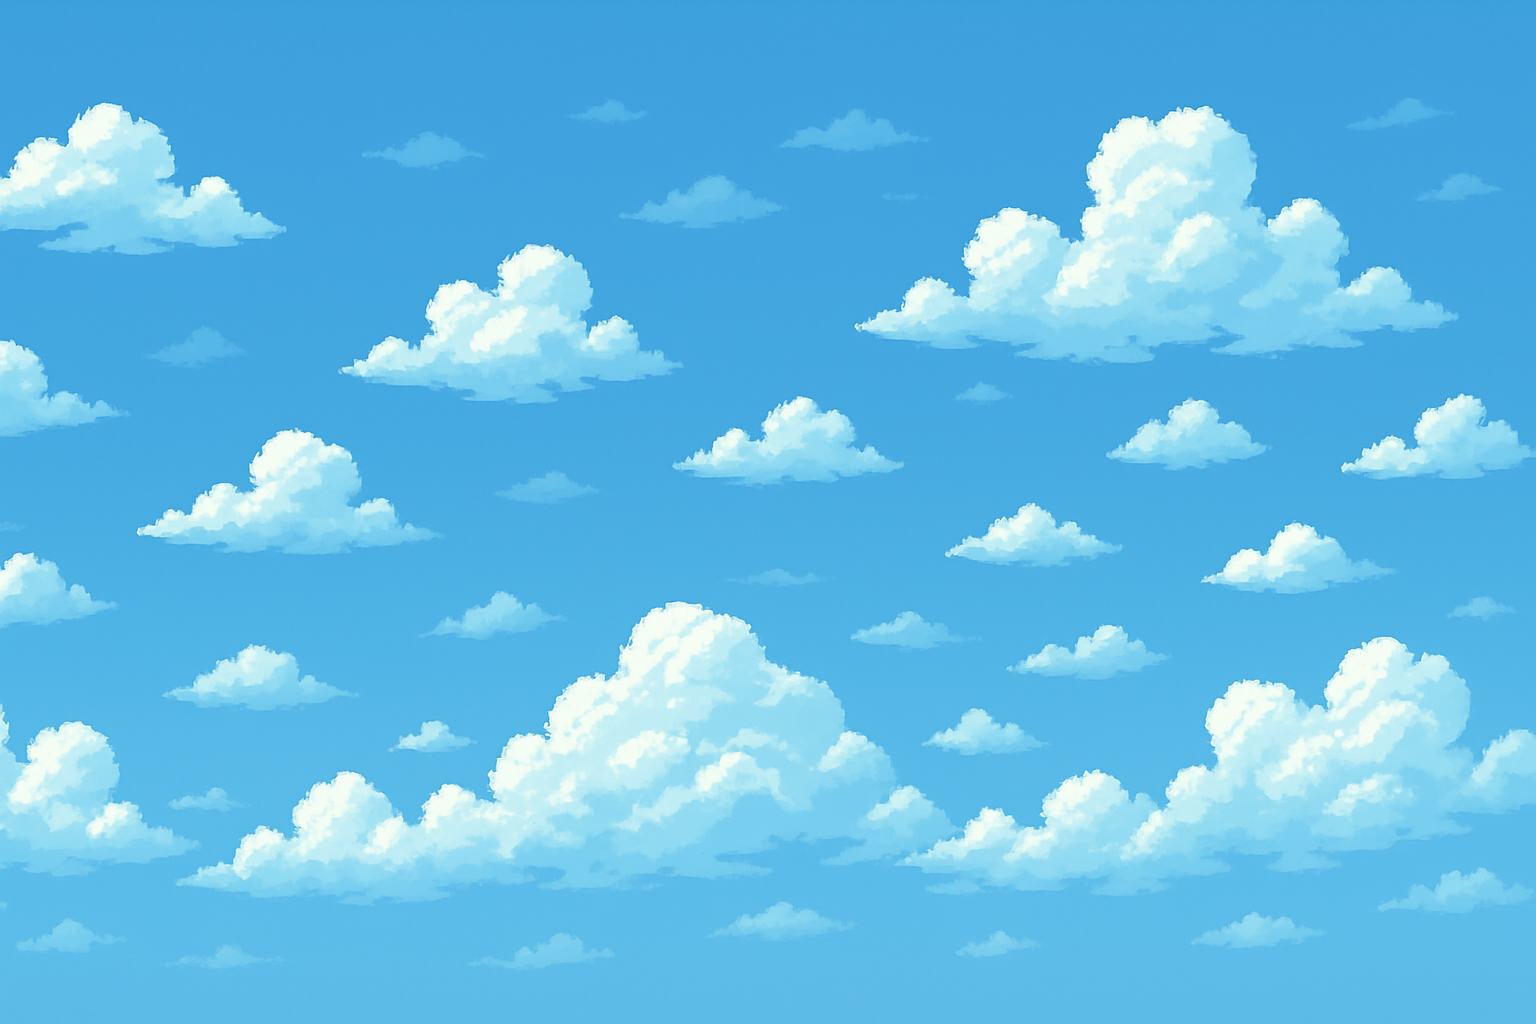
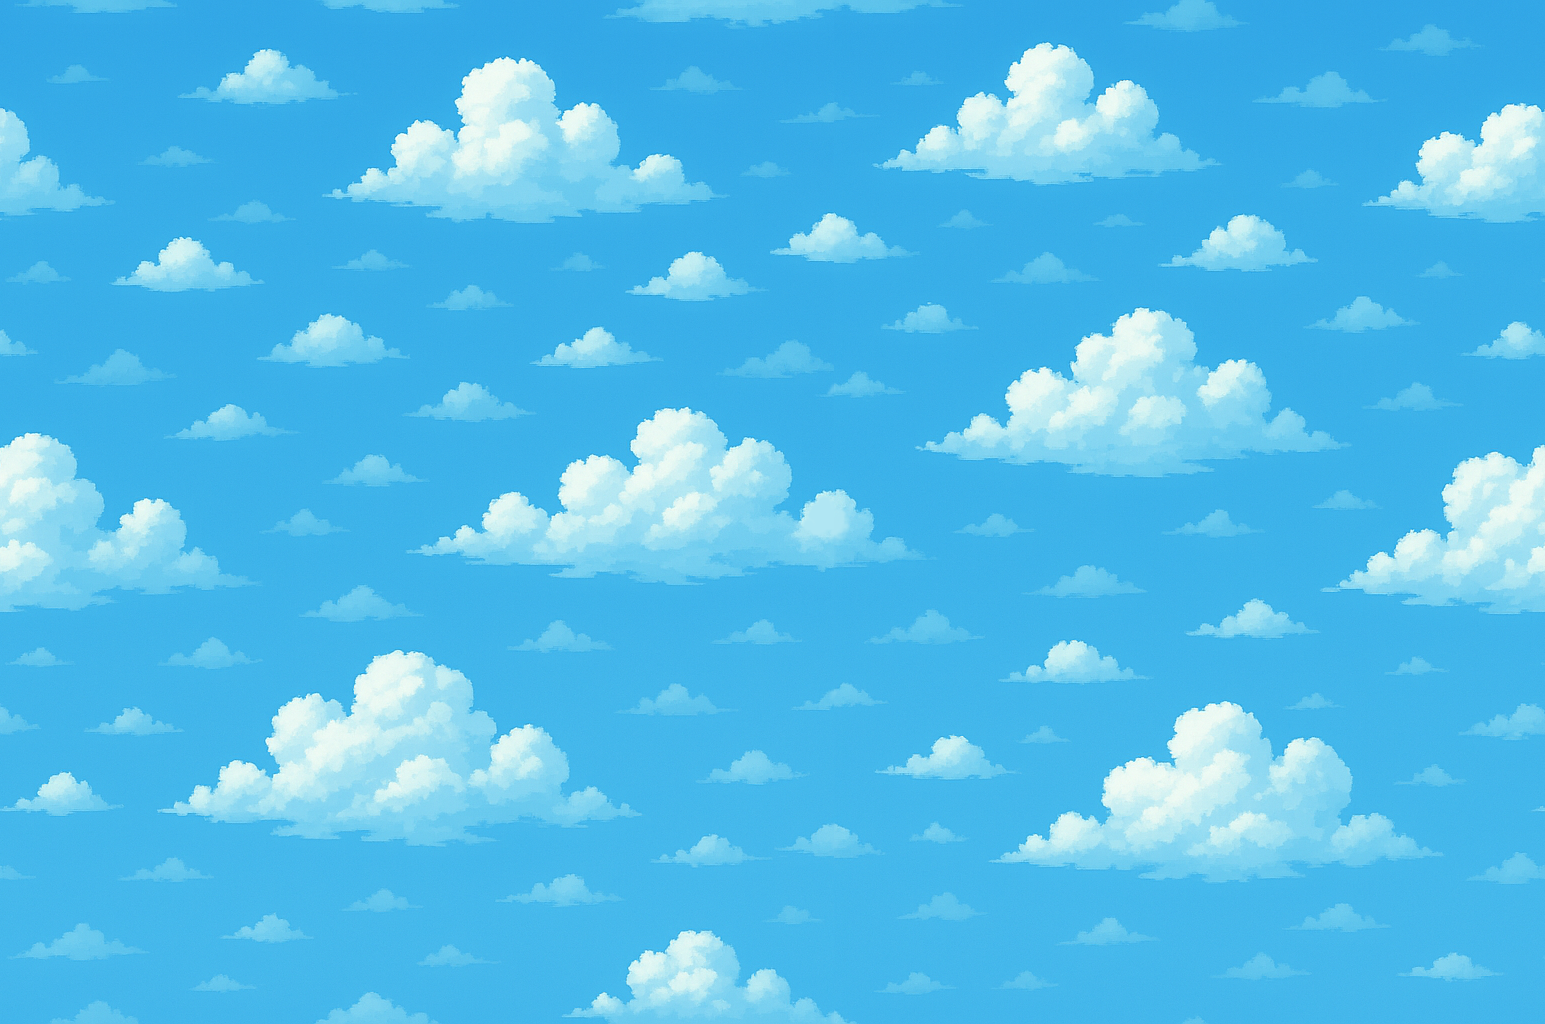
feat(app): add animated scrolling sky background for immersive pixel-style atmosphere

diff --git a/Laboratorio Módulo 4.3 - Frameworks - Vue/DailySprout/src/App.vue b/Laboratorio Módulo 4.3 - Frameworks - Vue/DailySprout/src/App.vue
@@ -3,6 +3,11 @@ import { RouterLink, RouterView } from 'vue-router'
 </script>
 
 <template>
+  <div class="sky-scroll">
+    <img src="/backgrounds/bg.png" class="sky" />
+    <img src="/backgrounds/bg.png" class="sky" />
+  </div>
+
   <header>
     <nav>
       <div class="logo">
@@ -19,10 +24,8 @@ import { RouterLink, RouterView } from 'vue-router'
 
 <style>
 body {
+  background-color: var(--pixel-sky-bg);
   margin: 0;
-  background-image: url('/backgrounds/bg.png');
-  background-size: cover;
-  background-repeat: no-repeat;
   height: 100vh;
 }
 
@@ -62,6 +65,35 @@ nav {
 
 .router-link-active {
   background-color: var(--pixel-tertiary-button-hover);
+}
+
+.sky-scroll {
+  position: fixed;
+  top: 0;
+  left: 0;
+  width: 200%;
+  height: 100vh;
+  overflow: hidden;
+  z-index: -1;
+  display: flex;
+}
+
+.sky {
+  width: 100%;
+  animation: moveClouds 120s linear infinite;
+}
+
+.sky:nth-child(2) {
+  margin-left: -1px;
+}
+
+@keyframes moveClouds {
+  0% {
+    transform: translateX(-100%);
+  }
+  100% {
+    transform: translateX(0);
+  }
 }
 </style>
 
